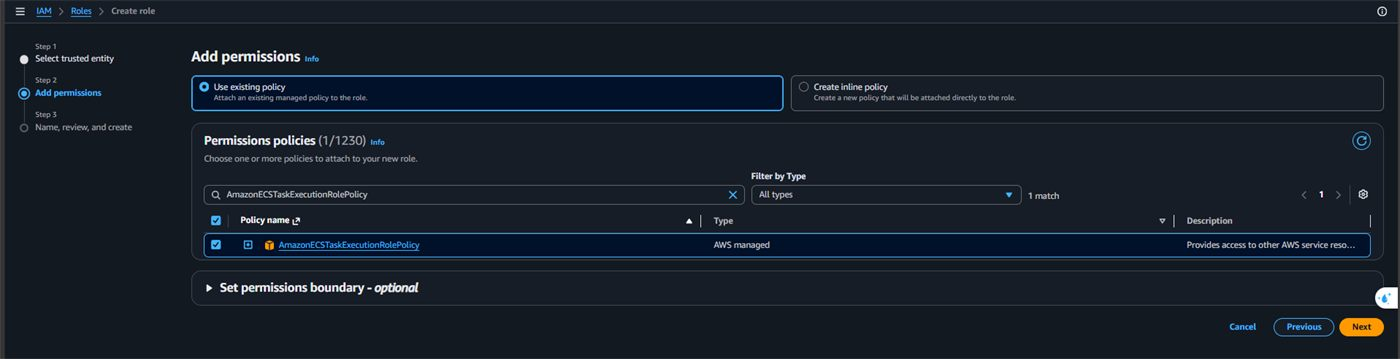
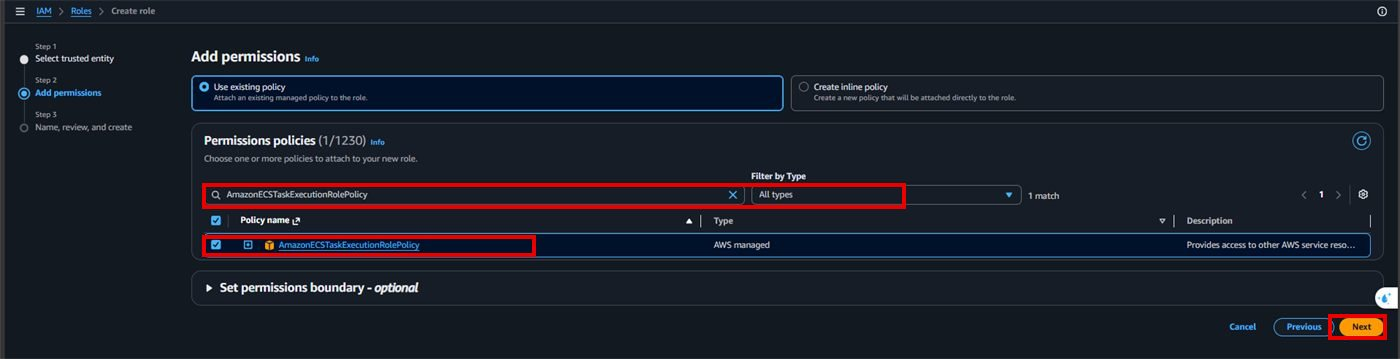
Workshop 5.4.11: one action per step, each followed by its screenshot

Changed region(s): [[0.1229, 0.4903, 0.645, 0.6128], [0.1229, 0.6435, 0.3993, 0.7354], [0.9214, 0.8579, 1.0, 0.9499]]

diff --git a/content/5-Workshop/5.4-Deployment-Guide/5.4.11-Data-Migration/_index.md b/content/5-Workshop/5.4-Deployment-Guide/5.4.11-Data-Migration/_index.md
@@ -8,6 +8,8 @@ pre: " <b> 5.4.11. </b> "
 
 The schemas on Aurora were created by each service's migration Lambda. This last step moved the **data** of the 7 local PostgreSQL databases into them — keeping the original IDs, without reseeding — using a one-shot ECS Fargate task that runs `pg_restore` inside the VPC.
 
+In every screenshot below, the **red rectangles** mark what to fill in or click for the sub-step written just above it.
+
 The order was fixed in advance so nothing could be corrupted halfway:
 
 1. Upload the 7 dumps and their manifest to a private S3 bucket.
@@ -21,27 +23,35 @@ The order was fixed in advance so nothing could be corrupted halfway:
 
 #### Step 1 — Private migration bucket
 
-S3 → *Create bucket* `fitness-assistant-data-migration-dev-<account-id>` in `ap-southeast-1`: **Block all public access on**, **versioning enabled**, SSE-S3 encryption, no static website. A dedicated bucket keeps dumps away from the public frontend bucket and the user-uploads bucket.
+**1.1 — Create the bucket.** S3 → *Create bucket* `fitness-assistant-data-migration-dev-<account-id>` in `ap-southeast-1`: **Block all public access on**, **versioning enabled**, SSE-S3 encryption, no static website. A dedicated bucket keeps dumps away from the public frontend bucket and the user-uploads bucket. The banner confirms the creation.
 
-![Bucket fitness-assistant-data-migration-dev created](/images/workshop/runbook/img336.jpg)
+![Banner "Successfully created bucket" and the bucket name](/images/workshop/runbook/img336.jpg)
 
-Create the prefixes `full-local-migration/2026-09/dumps/`, `manifests/` and `user-files/`.
+**1.2 — Create the first folder.** Click **Create folder**, enter the name `full-local-migration` and click **Create folder** again. Then repeat for `2026-09` inside it, and for `dumps`, `manifests` and `user-files` inside `2026-09`. The screenshot shows the form (folder name box and the Create folder button).
 
-![Create folder](/images/workshop/runbook/img337.jpg)
+![Folder name box and the Create folder button](/images/workshop/runbook/img337.jpg)
 
-![full-local-migration/](/images/workshop/runbook/img338.jpg)
+**1.3 — Open `full-local-migration/`.** The folder is empty; click **Create folder** again to add `2026-09`.
+
+![full-local-migration/ and its Create folder button](/images/workshop/runbook/img338.jpg)
+
+**1.4 — Check the result.** `2026-09/` contains the three folders `dumps/`, `manifests/` and `user-files/`.
 
 ![2026-09/ with dumps/, manifests/ and user-files/](/images/workshop/runbook/img339.jpg)
 
 #### Step 2 — Upload the dumps and the manifest
 
-Upload the 7 audited dumps unchanged (not unzipped, not converted to SQL): `gymcoach_auth`, `_user`, `_fitness`, `_gym`, `_payment`, `_chat` and `_ai` `.data.dump` — 72.9 MB in total — then the SHA-256 `manifest.json` to `manifests/`.
+**2.1 — Add the 7 dumps.** Open `dumps/`, click **Upload → Add files** and choose the 7 audited dumps unchanged (not unzipped, not converted to SQL): `gymcoach_auth`, `_user`, `_fitness`, `_gym`, `_payment`, `_chat` and `_ai` `.data.dump` — 72.9 MB in total. The destination must read `…/full-local-migration/2026-09/dumps/`.
 
-![Uploading the 7 dumps (72.9 MB) to dumps/](/images/workshop/runbook/img340.jpg)
+![Add files, the 7 files (72.9 MB) and the destination path](/images/workshop/runbook/img340.jpg)
 
-![Upload succeeded: 7 files](/images/workshop/runbook/img342.jpg)
+**2.2 — Start the upload and check it.** Click **Upload** at the bottom of the page. The status page must say **Upload succeeded** with 7 files and 0 failed. Click **Close**.
 
-![Uploading manifest.json to manifests/](/images/workshop/runbook/img343.jpg)
+![Upload succeeded: 7 files, 72.9 MB, Close](/images/workshop/runbook/img342.jpg)
+
+**2.3 — Upload the manifest.** Open `manifests/`, click **Upload → Add files**, choose the SHA-256 `manifest.json` and click **Upload**.
+
+![manifest.json (10.1 KB), destination manifests/ and the Upload button](/images/workshop/runbook/img343.jpg)
 
 {{% notice warning %}}
 Never upload `.env`, `.env.production`, database passwords, `JWT_SECRET`, `INTERNAL_SERVICE_SECRET`, AWS credentials or provider API keys to this bucket.
@@ -49,11 +59,13 @@ Never upload `.env`, `.env.production`, database passwords, `JWT_SECRET`, `INTER
 
 #### Step 3 — Migrator image
 
-A minimal image with only `pg_restore` and the AWS CLI, reusable for all 7 databases (and later for CI/CD). Create the ECR repository `fitness-assistant-dev-db-migrator` (private, mutable, AES-256).
+A minimal image with only `pg_restore` and the AWS CLI, reusable for all 7 databases (and later for CI/CD).
 
-![Create repository fitness-assistant-dev-db-migrator](/images/workshop/runbook/img344.jpg)
+**3.1 — Create the ECR repository.** ECR → *Create repository*: private, name `fitness-assistant-dev-db-migrator`, tag mutability **Mutable**, AES-256, then **Create**. (The deprecated scan-on-push toggle is shown on by default in this console.)
 
-`tools/db-migrator/Dockerfile`:
+![Repository name, Mutable and the Create button](/images/workshop/runbook/img344.jpg)
+
+**3.2 — Write the Dockerfile.** `tools/db-migrator/Dockerfile`:
 
 ```dockerfile
 FROM postgres:16-bookworm
@@ -65,6 +77,8 @@ ENTRYPOINT ["/bin/bash", "-lc"]
 CMD ["echo 'db-migrator ready'"]
 ```
 
+**3.3 — Build, test, log in, tag and push.** From PowerShell in `tools/db-migrator`:
+
 ```powershell
 docker build -t fitness-assistant-db-migrator:dev .
 docker run --rm fitness-assistant-db-migrator:dev "pg_restore --version && aws --version"   # pg_restore 16.15, aws-cli 2.9.19
@@ -73,17 +87,21 @@ docker tag fitness-assistant-db-migrator:dev <account-id>.dkr.ecr.ap-southeast-1
 docker push <account-id>.dkr.ecr.ap-southeast-1.amazonaws.com/fitness-assistant-dev-db-migrator:dev-20260923-1
 ```
 
-![Pushing fitness-assistant-dev-db-migrator:dev-20260923-1](/images/workshop/runbook/img345.jpg)
+The screenshot shows only the final push: every layer `Pushed` and the digest line.
+
+![The docker push command and the final digest line](/images/workshop/runbook/img345.jpg)
 
 #### Step 4 — Roles
 
-**Execution role** `fitness-assistant-dev-db-migrator-execution-role` (ECS task, `AmazonECSTaskExecutionRolePolicy`) — pulls the image and writes logs.
+**4.1 — Execution role, policy.** **IAM → Roles → Create role → AWS service → Elastic Container Service Task**, then search `AmazonECSTaskExecutionRolePolicy`, tick it and click **Next** — it pulls the image and writes logs.
 
-![AmazonECSTaskExecutionRolePolicy](/images/workshop/runbook/img346.jpg)
+![Search AmazonECSTaskExecutionRolePolicy, the ticked row and Next](/images/workshop/runbook/img346.jpg)
 
-![Role fitness-assistant-dev-db-migrator-execution-role, trusted by ecs-tasks](/images/workshop/runbook/img347.jpg)
+**4.2 — Execution role, name.** `fitness-assistant-dev-db-migrator-execution-role` (trusted by `ecs-tasks.amazonaws.com`), then **Create role**.
 
-**Task role** `fitness-assistant-dev-db-migrator-task-role` with the inline policy `fitness-assistant-dev-db-migrator-runtime` — read the dumps prefix only, and read the Aurora credential:
+![Role name and Create role](/images/workshop/runbook/img347.jpg)
+
+**4.3 — Task role.** Create `fitness-assistant-dev-db-migrator-task-role` the same way (same trusted entity, no managed policy — the banner at the top of its form is the earlier execution-role confirmation), then add the inline policy `fitness-assistant-dev-db-migrator-runtime` — read the dumps prefix only, and read the Aurora credential:
 
 ```json
 {
@@ -112,47 +130,71 @@ docker push <account-id>.dkr.ecr.ap-southeast-1.amazonaws.com/fitness-assistant-
 }
 ```
 
-![Runtime policy JSON](/images/workshop/runbook/img348.jpg)
+![Task role name and the Create role button](/images/workshop/runbook/img350.jpg)
 
-![Policy fitness-assistant-dev-db-migrator-runtime: S3 and Secrets Manager](/images/workshop/runbook/img349.jpg)
+**4.4 — Paste the policy.** In the policy editor (JSON) paste the policy above and click **Next**.
 
-![Task role fitness-assistant-dev-db-migrator-task-role](/images/workshop/runbook/img350.jpg)
+![Runtime policy JSON and Next](/images/workshop/runbook/img348.jpg)
+
+**4.5 — Name and create it.** `fitness-assistant-dev-db-migrator-runtime`, **Create policy**; the summary lists S3 and Secrets Manager.
+
+![Policy name fitness-assistant-dev-db-migrator-runtime and Create policy](/images/workshop/runbook/img349.jpg)
 
 #### Step 5 — Task definition
 
 ECS → *Create new task definition* `fitness-assistant-dev-db-migrator`: Fargate, Linux/X86_64, `awsvpc`, **1 vCPU / 2 GB**, the two roles, container `db-migrator` with image `…/fitness-assistant-dev-db-migrator:dev-20260923-1`, no port mapping needed, environment `AWS_REGION=ap-southeast-1`, `DB_SECRET_ID=fitness-assistant/dev/chat-database`, `DUMP_S3_PREFIX=s3://fitness-assistant-data-migration-dev-<account-id>/full-local-migration/2026-09/dumps`, logs to `/ecs/fitness-assistant-dev-db-migrator`, default ephemeral storage (far more than the 73 MB of dumps). No command is set — it is overridden at run time.
 
-![Family fitness-assistant-dev-db-migrator: Fargate, 1 vCPU, 2 GB](/images/workshop/runbook/img351.jpg)
+**5.1 — Family, launch type and size.** Family `fitness-assistant-dev-db-migrator`, **AWS Fargate**, Linux/X86_64, CPU **1 vCPU**, memory **2 GB**.
 
-![Task and execution roles, container db-migrator and its image](/images/workshop/runbook/img352.jpg)
+![Family, Fargate, 1 vCPU and 2 GB](/images/workshop/runbook/img351.jpg)
 
-![Container settings](/images/workshop/runbook/img353.jpg)
+**5.2 — Roles and container.** Task role `fitness-assistant-dev-db-migrator-task-role`, task execution role `fitness-assistant-dev-db-migrator-execution-role`, container name `db-migrator`, image URI `<account-id>.dkr.ecr.ap-southeast-1.amazonaws.com/fitness-assistant-dev-db-migrator:dev-20260923-1`.
 
-![Environment variables and log collection](/images/workshop/runbook/img354.jpg)
+![Task role, execution role, container name and image URI](/images/workshop/runbook/img352.jpg)
 
-![Ephemeral storage, then Create](/images/workshop/runbook/img355.jpg)
+**5.3 — Port mapping.** The console pre-fills container port 80; the runbook needs no port, so remove that mapping (**Remove**) — the screenshot shows the untouched default.
+
+![Default port mapping 80 (to be removed)](/images/workshop/runbook/img353.jpg)
+
+**5.4 — Environment variables and logging.** Add `AWS_REGION`, `DB_SECRET_ID` and `DUMP_S3_PREFIX` with the values above and keep **Use log collection** ticked.
+
+![Three environment variables and Use log collection](/images/workshop/runbook/img354.jpg)
+
+**5.5 — Storage and create.** Leave ephemeral storage at the default (the console shows 21) and click **Create**.
+
+![Ephemeral storage amount and Create](/images/workshop/runbook/img355.jpg)
 
 #### Step 6 — Inject the database URL as a secret (revision 2)
 
-Give the execution role `secretsmanager:GetSecretValue` on the `chat-database-url` secret (inline policy `fitness-assistant-dev-db-migrator-secret`), then create **revision 2** with a secret environment variable `DATABASE_URL`, value type *ValueFrom*, value `<chat-database-url secret ARN>:CHAT_DATABASE_URL::`. `DB_SECRET_ID` is no longer needed.
+**6.1 — Extend the execution role.** Give the execution role `secretsmanager:GetSecretValue` on the `chat-database-url` secret: **Add permissions → Create inline policy → JSON** with the statement `ReadDatabaseUrl`, named `fitness-assistant-dev-db-migrator-secret`.
 
-![Execution role policy for the database URL secret](/images/workshop/runbook/img356.jpg)
+![JSON editor: ReadDatabaseUrl statement](/images/workshop/runbook/img356.jpg)
 
-![Task definition fitness-assistant-dev-db-migrator:2 active](/images/workshop/runbook/img357.jpg)
+**6.2 — Create revision 2.** From the task definition choose **Create new revision** and add a secret environment variable `DATABASE_URL`, value type *ValueFrom*, value `<chat-database-url secret ARN>:CHAT_DATABASE_URL::`; remove `DB_SECRET_ID`, which is no longer needed. The confirmation shows `fitness-assistant-dev-db-migrator:2` as ACTIVE with its two roles.
+
+![Task definition fitness-assistant-dev-db-migrator:2 created and active](/images/workshop/runbook/img357.jpg)
 
 The script derives the server URL from `DATABASE_URL` and switches the database name per restore, so one credential serves all 7 logical databases on the same cluster.
 
 #### Step 7 — Preflight (read-only)
 
-ECS → `fitness-assistant-dev-cluster` → *Tasks → Run new task*: FARGATE, `fitness-assistant-dev-db-migrator:2`, 1 task, private app subnets, security group `fitness-assistant-dev-chat-sg` (already allowed into Aurora on 5432 and into the Secrets Manager endpoint), public IP disabled, no load balancer. Command override for `db-migrator`:
+**7.1 — Run a new task.** ECS → `fitness-assistant-dev-cluster` → *Tasks → Run new task*: FARGATE, `fitness-assistant-dev-db-migrator:2`, 1 task, private app subnets, security group `fitness-assistant-dev-chat-sg` (already allowed into Aurora on 5432 and into the Secrets Manager endpoint), public IP disabled, no load balancer.
+
+*The runbook has no screenshot of the networking part of this form.*
+
+**7.2 — Override the command.** Under **Container overrides → db-migrator** paste into **Command override**:
 
 ```bash
 set -euo pipefail; echo "=== DB MIGRATOR PREFLIGHT START ==="; echo "Region=$AWS_REGION"; echo "Prefix=$DUMP_S3_PREFIX"; test -n "${DATABASE_URL:-}"; PSQL_URL="${DATABASE_URL%%\?*}"; mkdir -p /work/dumps; aws s3 ls "$DUMP_S3_PREFIX/"; aws s3 cp "$DUMP_S3_PREFIX/" /work/dumps/ --recursive --only-show-errors; ls -lh /work/dumps; for f in gymcoach_auth.data.dump gymcoach_user.data.dump gymcoach_fitness.data.dump gymcoach_gym.data.dump gymcoach_payment.data.dump gymcoach_chat.data.dump gymcoach_ai.data.dump; do test -s "/work/dumps/$f"; pg_restore -l "/work/dumps/$f" >/dev/null; echo "OK dump: $f"; done; echo "Checking Aurora databases..."; psql "$PSQL_URL" -v ON_ERROR_STOP=1 -Atc "select datname from pg_database where datname in ('fitness_assistant','fitness_assistant_user','fitness_assistant_fitness','fitness_assistant_gym','fitness_assistant_payment','fitness_assistant_chat','fitness_assistant_ai') order by datname;"; echo "=== DB MIGRATOR PREFLIGHT OK ==="
 ```
 
-![Run task with the preflight command override](/images/workshop/runbook/img358.jpg)
+The environment overrides below it keep the three variables (the screenshot's `AWS_REGION`, `DB_SECRET_ID` and `DUMP_S3_PREFIX` rows). Click **Create** to start the task.
 
-**Expected result** at the end of `/ecs/fitness-assistant-dev-db-migrator`: `=== DB MIGRATOR PREFLIGHT OK ===` — every dump downloads and is readable by `pg_restore -l`, and all 7 databases exist. If the task stops with an error, record the stopped reason and last log lines before going further.
+![Command override box and the environment variable override values](/images/workshop/runbook/img358.jpg)
+
+**7.3 — Read the log.** **Expected result** at the end of `/ecs/fitness-assistant-dev-db-migrator`: `=== DB MIGRATOR PREFLIGHT OK ===` — every dump downloads and is readable by `pg_restore -l`, and all 7 databases exist. If the task stops with an error, record the stopped reason and last log lines before going further.
+
+*The runbook has no screenshot of the log output.*
 
 #### Step 8 — Restore
 
@@ -160,13 +202,15 @@ set -euo pipefail; echo "=== DB MIGRATOR PREFLIGHT START ==="; echo "Region=$AWS
 **Destructive DEV operation.** This step empties every table (except `_prisma_migrations`) in the 7 Aurora DEV databases and replaces the data with the local dumps. The schema and migration history are not touched. Run it only after the preflight succeeded.
 {{% /notice %}}
 
-Same run-task settings, with this command override:
+**8.1 — Run the task again.** Same run-task settings, with this command override:
 
 ```bash
 set -euo pipefail; echo "=== FULL RESTORE START ==="; mkdir -p /work/dumps; aws s3 cp "$DUMP_S3_PREFIX/" /work/dumps/ --recursive --only-show-errors; PSQL_URL="${DATABASE_URL%%\?*}"; BASE="${PSQL_URL%/*}"; restore_db(){ DB="$1"; DUMP="$2"; URL="$BASE/$DB"; echo "=== CLEAN $DB ==="; T=$(psql "$URL" -v ON_ERROR_STOP=1 -Atc "select string_agg(format('%I.%I', schemaname, tablename), ',') from pg_tables where schemaname='public' and tablename <> '_prisma_migrations';"); if [ -n "$T" ]; then psql "$URL" -v ON_ERROR_STOP=1 -c "TRUNCATE TABLE $T RESTART IDENTITY CASCADE;"; fi; echo "=== RESTORE $DB FROM $DUMP ==="; pg_restore --exit-on-error --no-owner --no-privileges --data-only --exclude-table-data=public._prisma_migrations --dbname="$URL" "/work/dumps/$DUMP"; echo "=== DONE $DB ==="; }; restore_db fitness_assistant gymcoach_auth.data.dump; restore_db fitness_assistant_user gymcoach_user.data.dump; restore_db fitness_assistant_fitness gymcoach_fitness.data.dump; restore_db fitness_assistant_gym gymcoach_gym.data.dump; restore_db fitness_assistant_payment gymcoach_payment.data.dump; restore_db fitness_assistant_chat gymcoach_chat.data.dump; restore_db fitness_assistant_ai gymcoach_ai.data.dump; echo "=== FULL RESTORE OK ==="
 ```
 
 **Expected result:** `=== DONE fitness_assistant_ai ===` followed by `=== FULL RESTORE OK ===`.
+
+*The runbook has no screenshot of Step 8.*
 
 #### Step 9 — Handle schema drift with a scripted migrator
 
@@ -190,6 +234,8 @@ aws ecs run-task `
 1. `MODE=apply-prepatch` applies the schema pre-patches; the log must show `schema-prepatch applied` and the task must stop with exit code 0.
 2. Review the generated `db-migrator-output/generated/needs-review.fitness_assistant_gym.sql` in the migration bucket and decide the `gym_id → brand_id` case deliberately.
 3. Run `MODE=restore`.
+
+*The runbook has no screenshots of Step 9.*
 
 #### Result
 
